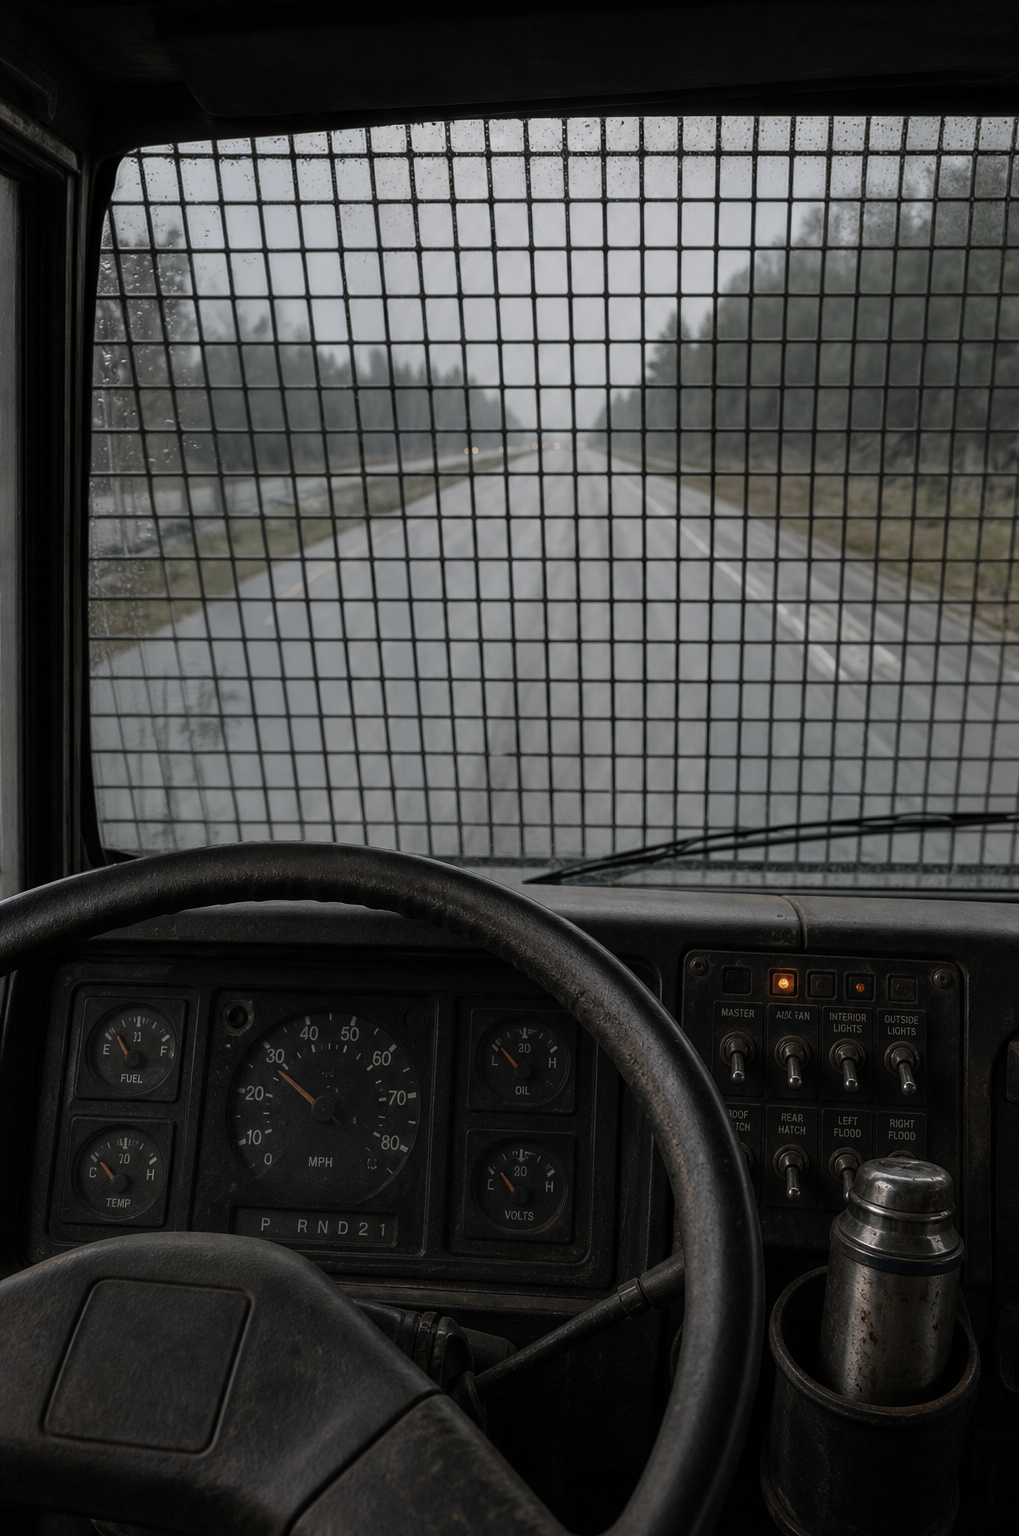
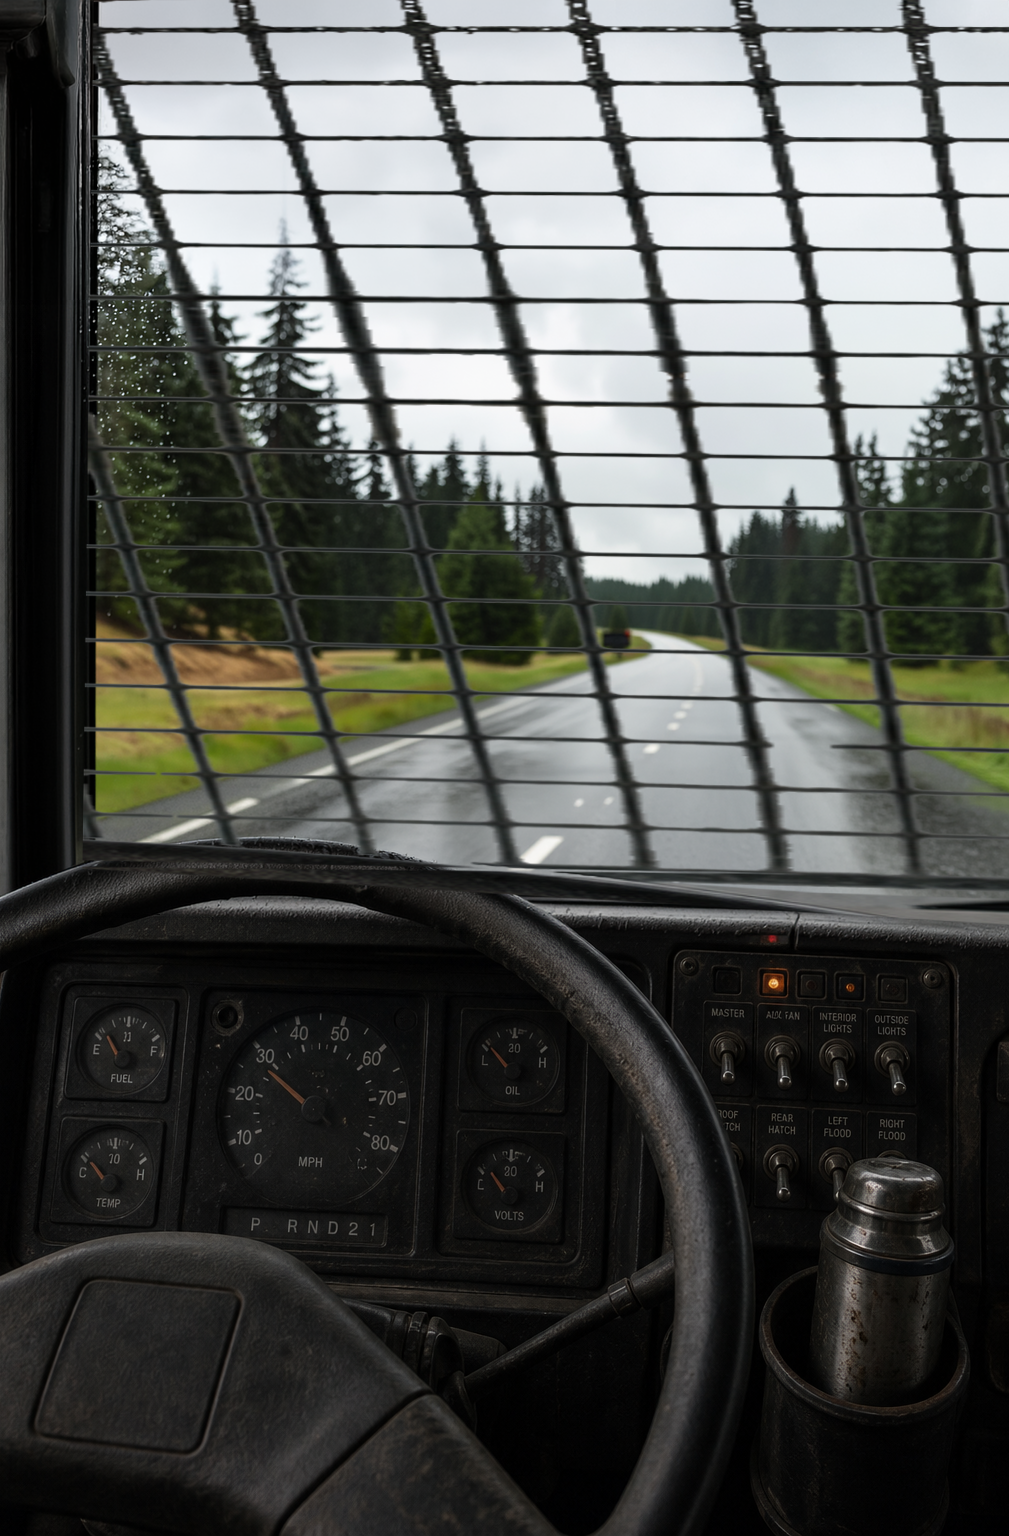
Relock the Ledger cab from D4 take 2 and redo in-cab stills against it.
The last batch invented dashboards. Prompts now copy this photo: same wheel, cluster, cage, and thermos. Two b-takes per card, unseeded.

diff --git a/scripts/compile-prompt.js b/scripts/compile-prompt.js
@@ -32,7 +32,7 @@ const FRAMING = {
   POV_COCKPIT:
     "Camera is inside the cabin, over the wheel, looking forward through the windshield. Gauges bottom-left, welded steel mesh across the top of the glass, road through the grid.",
   POV_COCKPIT_LEDGER:
-    "Camera is inside the high-seat cabin, no driver face in frame. Default is over the large commercial wheel looking forward through the windshield: square analog gauges bottom-left, a welded bar cage with a cut wiper slot across the glass, road through the grid. The right half of the windshield is open road — no clipboard, no log sheet, no paper on the mesh. The clipboard if present is on the doghouse between the seats, below the glass. When the brief names the left door mirror: sit in the seat and look left at the big side mirror on the left door; the windshield and any cones stay in the right of frame. When the brief names the right door mirror or a right-side sliver: sit in the seat and look right across the doghouse at the right door glass; never put a right-side hazard in the left mirror.",
+    "Camera is inside the high-seat cabin, no driver face in frame. Match the attached cockpit lock exactly — same worn three-spoke wheel, same analog cluster, same bar cage with a cut wiper slot, same thermos in the right-side cup. Do not invent a different dashboard, a different mesh, extra switch labels, or a second vehicle interior. Default is over that wheel looking forward through the windshield, road through the grid. The right half of the windshield is open road — no clipboard, no log sheet, no paper on the mesh. The clipboard if present is on the doghouse between the seats, below the glass. When the brief names the left door mirror: sit in the seat and look left at the big side mirror on the left door; the windshield and any cones stay in the right of frame. When the brief names the right door mirror or a right-side sliver: sit in the seat and look right across the doghouse at the right door glass; never put a right-side hazard in the left mirror.",
   POV_DIAGRAM_LEDGER:
     "Camera is high and slightly oblique — fifteen to twenty degrees off vertical, looking along the ego vehicle's direction of travel so the rear of the cutaway shuttle is nearer the camera and the van nose is the far, leading end. Tight crop: only the lane geometry the card turns on. No extra side streets, parked cars, or curb clutter the brief did not name. Real wet pavement, real painted lines. The Ledger is the actual ex-transit cutaway: tall square passenger box on a van nose, gray primer over faded green-and-white, oversize side mirrors on long arms, amber destination sign with no readable text, bar cage over the windshield. Other vehicles are ordinary cars or trucks, desaturated gray or primer, never a second cutaway shuttle. Painted pavement arrows only where the brief names them, and they agree with travel direction — no floating UI arrows, no legend, no callouts.",
   POV_MIRROR_REAR:

diff --git a/refs/LOCKS.md b/refs/LOCKS.md
@@ -16,7 +16,7 @@ Never mix panels across takes. Winners only.
 | Encore four-view | Y3 take 3 | `ref_encore_sheet.png` | Wedge + four roof horns + chevrons; no mesh. All four takes stripped the glass — bible wants glass with no mesh. Silhouette still reads. Rerun before cockpit lock if glass matters. |
 | Convoy silhouette | G1 take 2 | `ref_convoy.png` | Round / box / wedge reads at a glance. Only take that kept Encore's PA horns; 1, 3, 4 turned them into spotlights. Overcast PNW, no salt-flat bleed. |
 | II-007 card art | take 2 | `../cards/II-007.png` | Amber lamps lit; enough pavement that the open left lane reads. Invented fallen tree is compiler drift — do not carry into later Kent cards. Takes 3–4 lit the reds/brakes and are unusable. |
-| Ledger cockpit | D4 take 2 | `ref_ledger_cockpit.png` | **Poisoned lock — do not trust until retaken.** Take 2 mounted the clipboard on the passenger mesh and blocked the right half of the road. D4 prompt now forbids that. Retake before any Ledger cockpit recompile; attaching this file is how the clipboard keeps returning. Wiper-slot cut, thermos, high seating, round west-coast mirror are the keepers. |
+| Ledger cockpit | D4 take 2 | `ref_ledger_cockpit.png` | Locked from `cards/takes/D4-take-2.png` (1 Sep 2026). Match this cab: worn three-spoke wheel, analog cluster, bar cage, thermos in the right cup, no clipboard on the mesh. Never the old poisoned cockpit. Never a Menace ref on Deac cards. |
 | Encore cockpit | Y4 take 1 | `ref_encore_cockpit.png` | Four PA horns, mic on the cage, guarded red switch. Takes 2 and 4 turned horns into spotlights. Glass may read as missing — compiler still forces intact glass on exteriors. |
 
 Ali face: prefer `ref_ali2.png` (wire-rim rounds + raglan hoodie). `ref_ali1.jpg` has thick black frames — do not mix.
